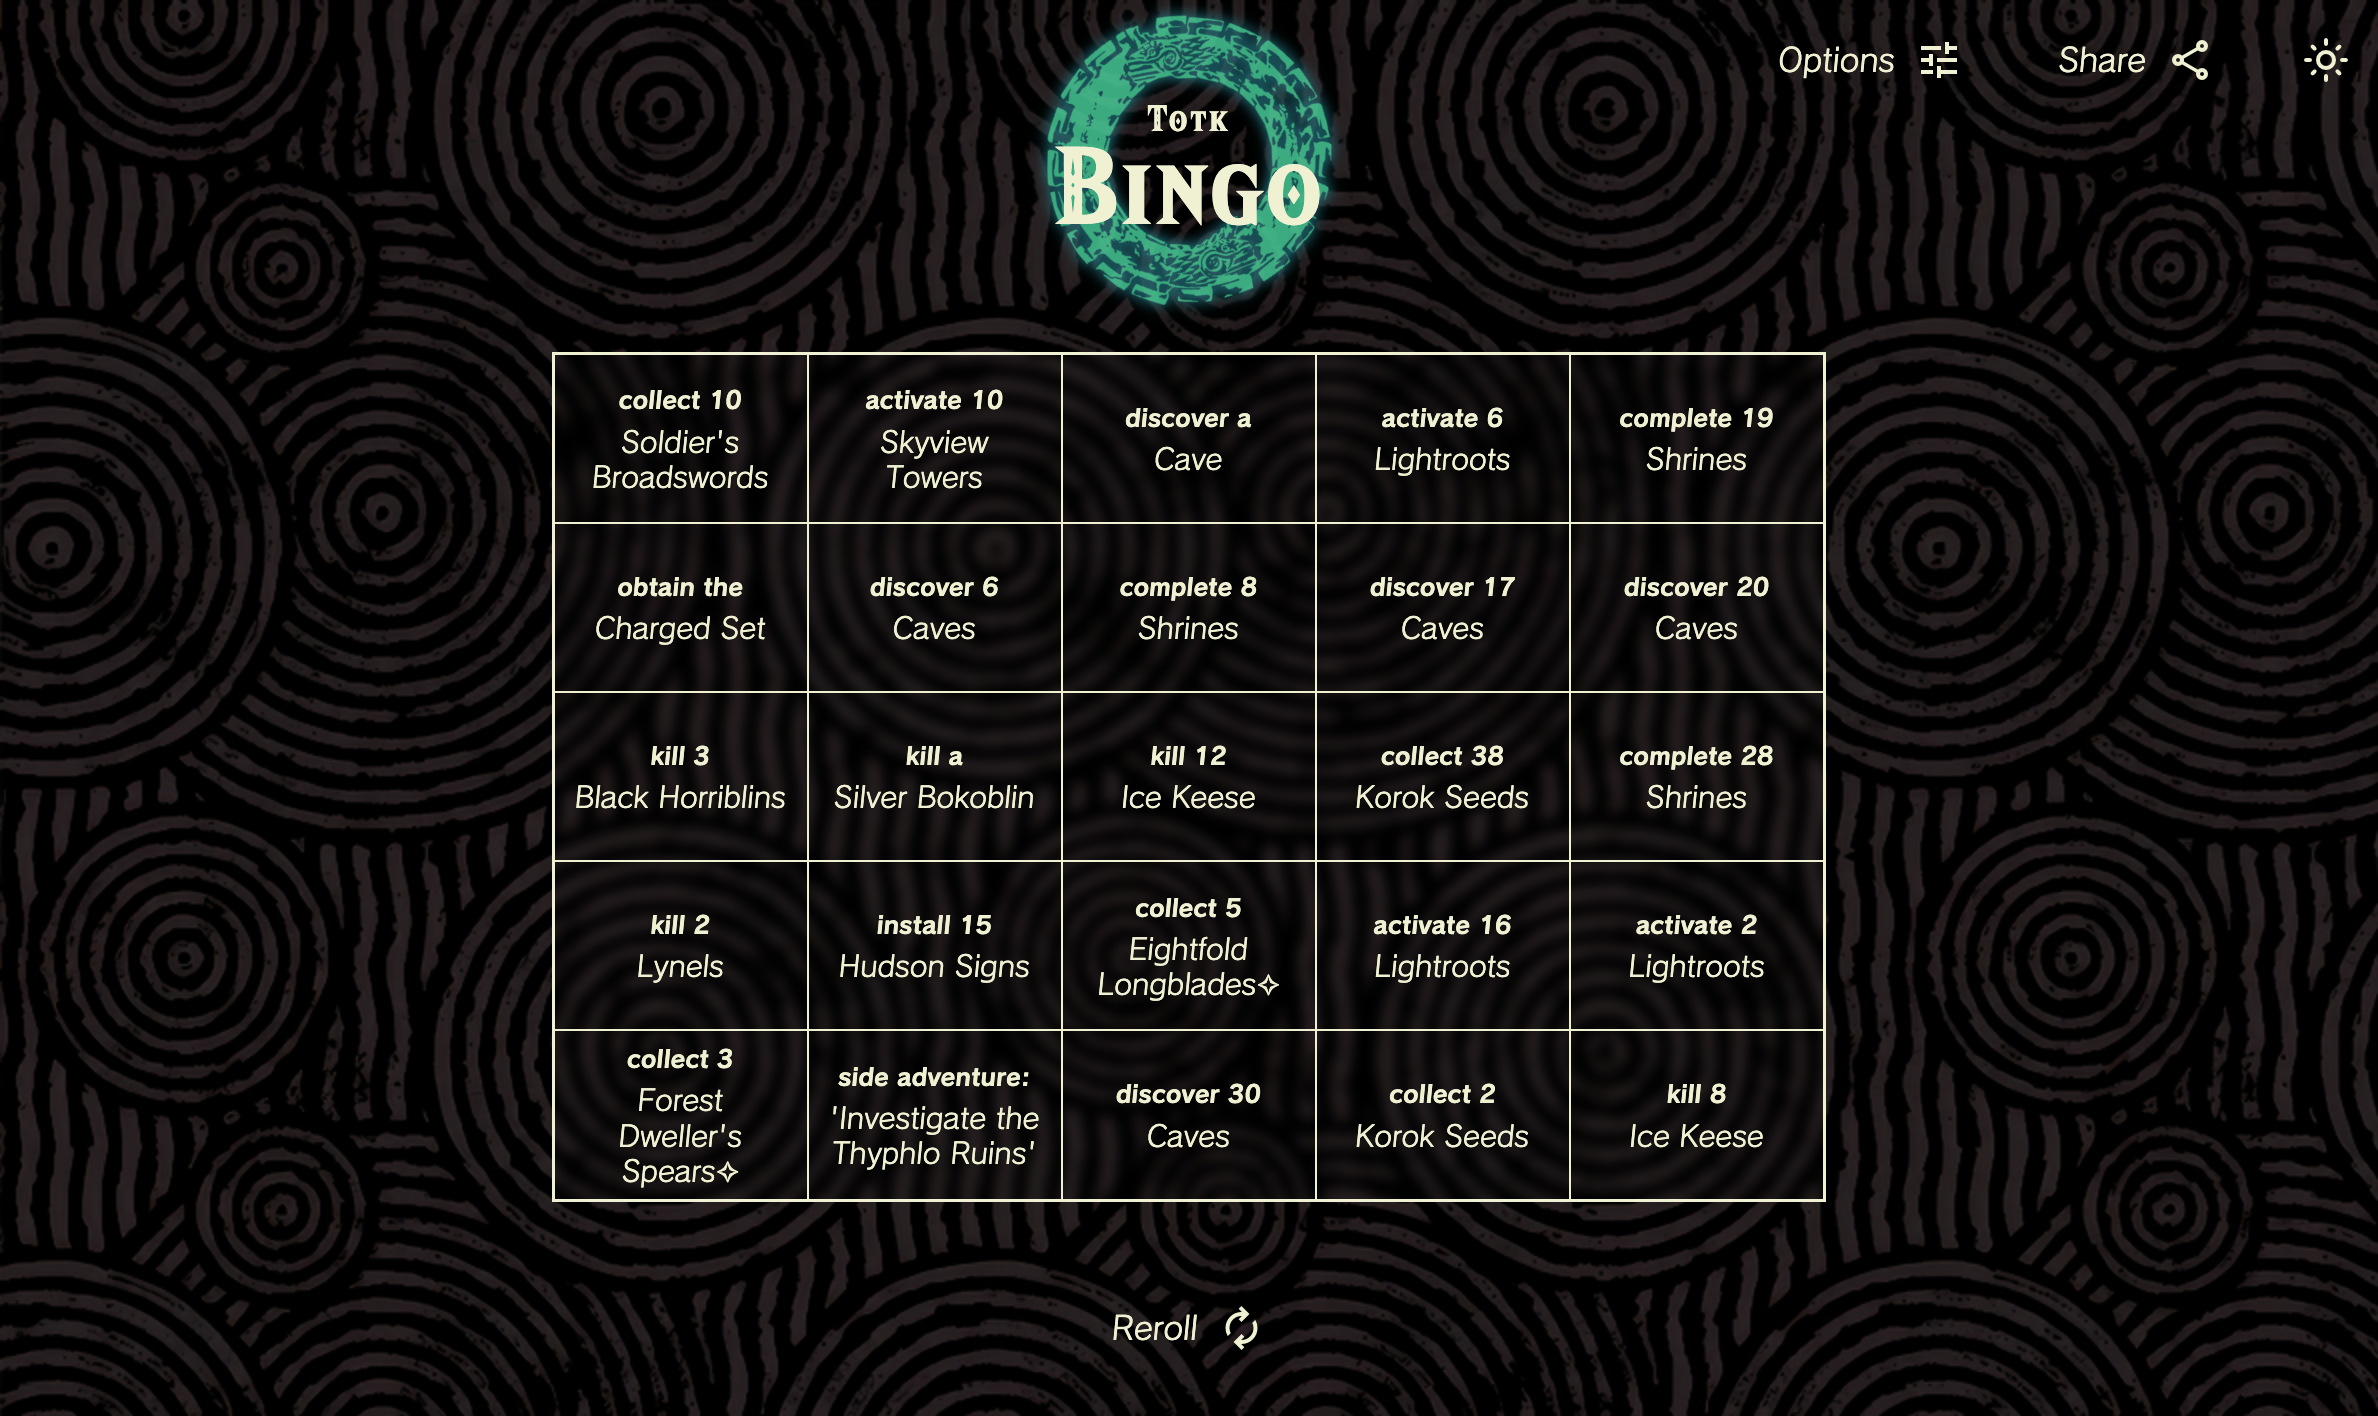
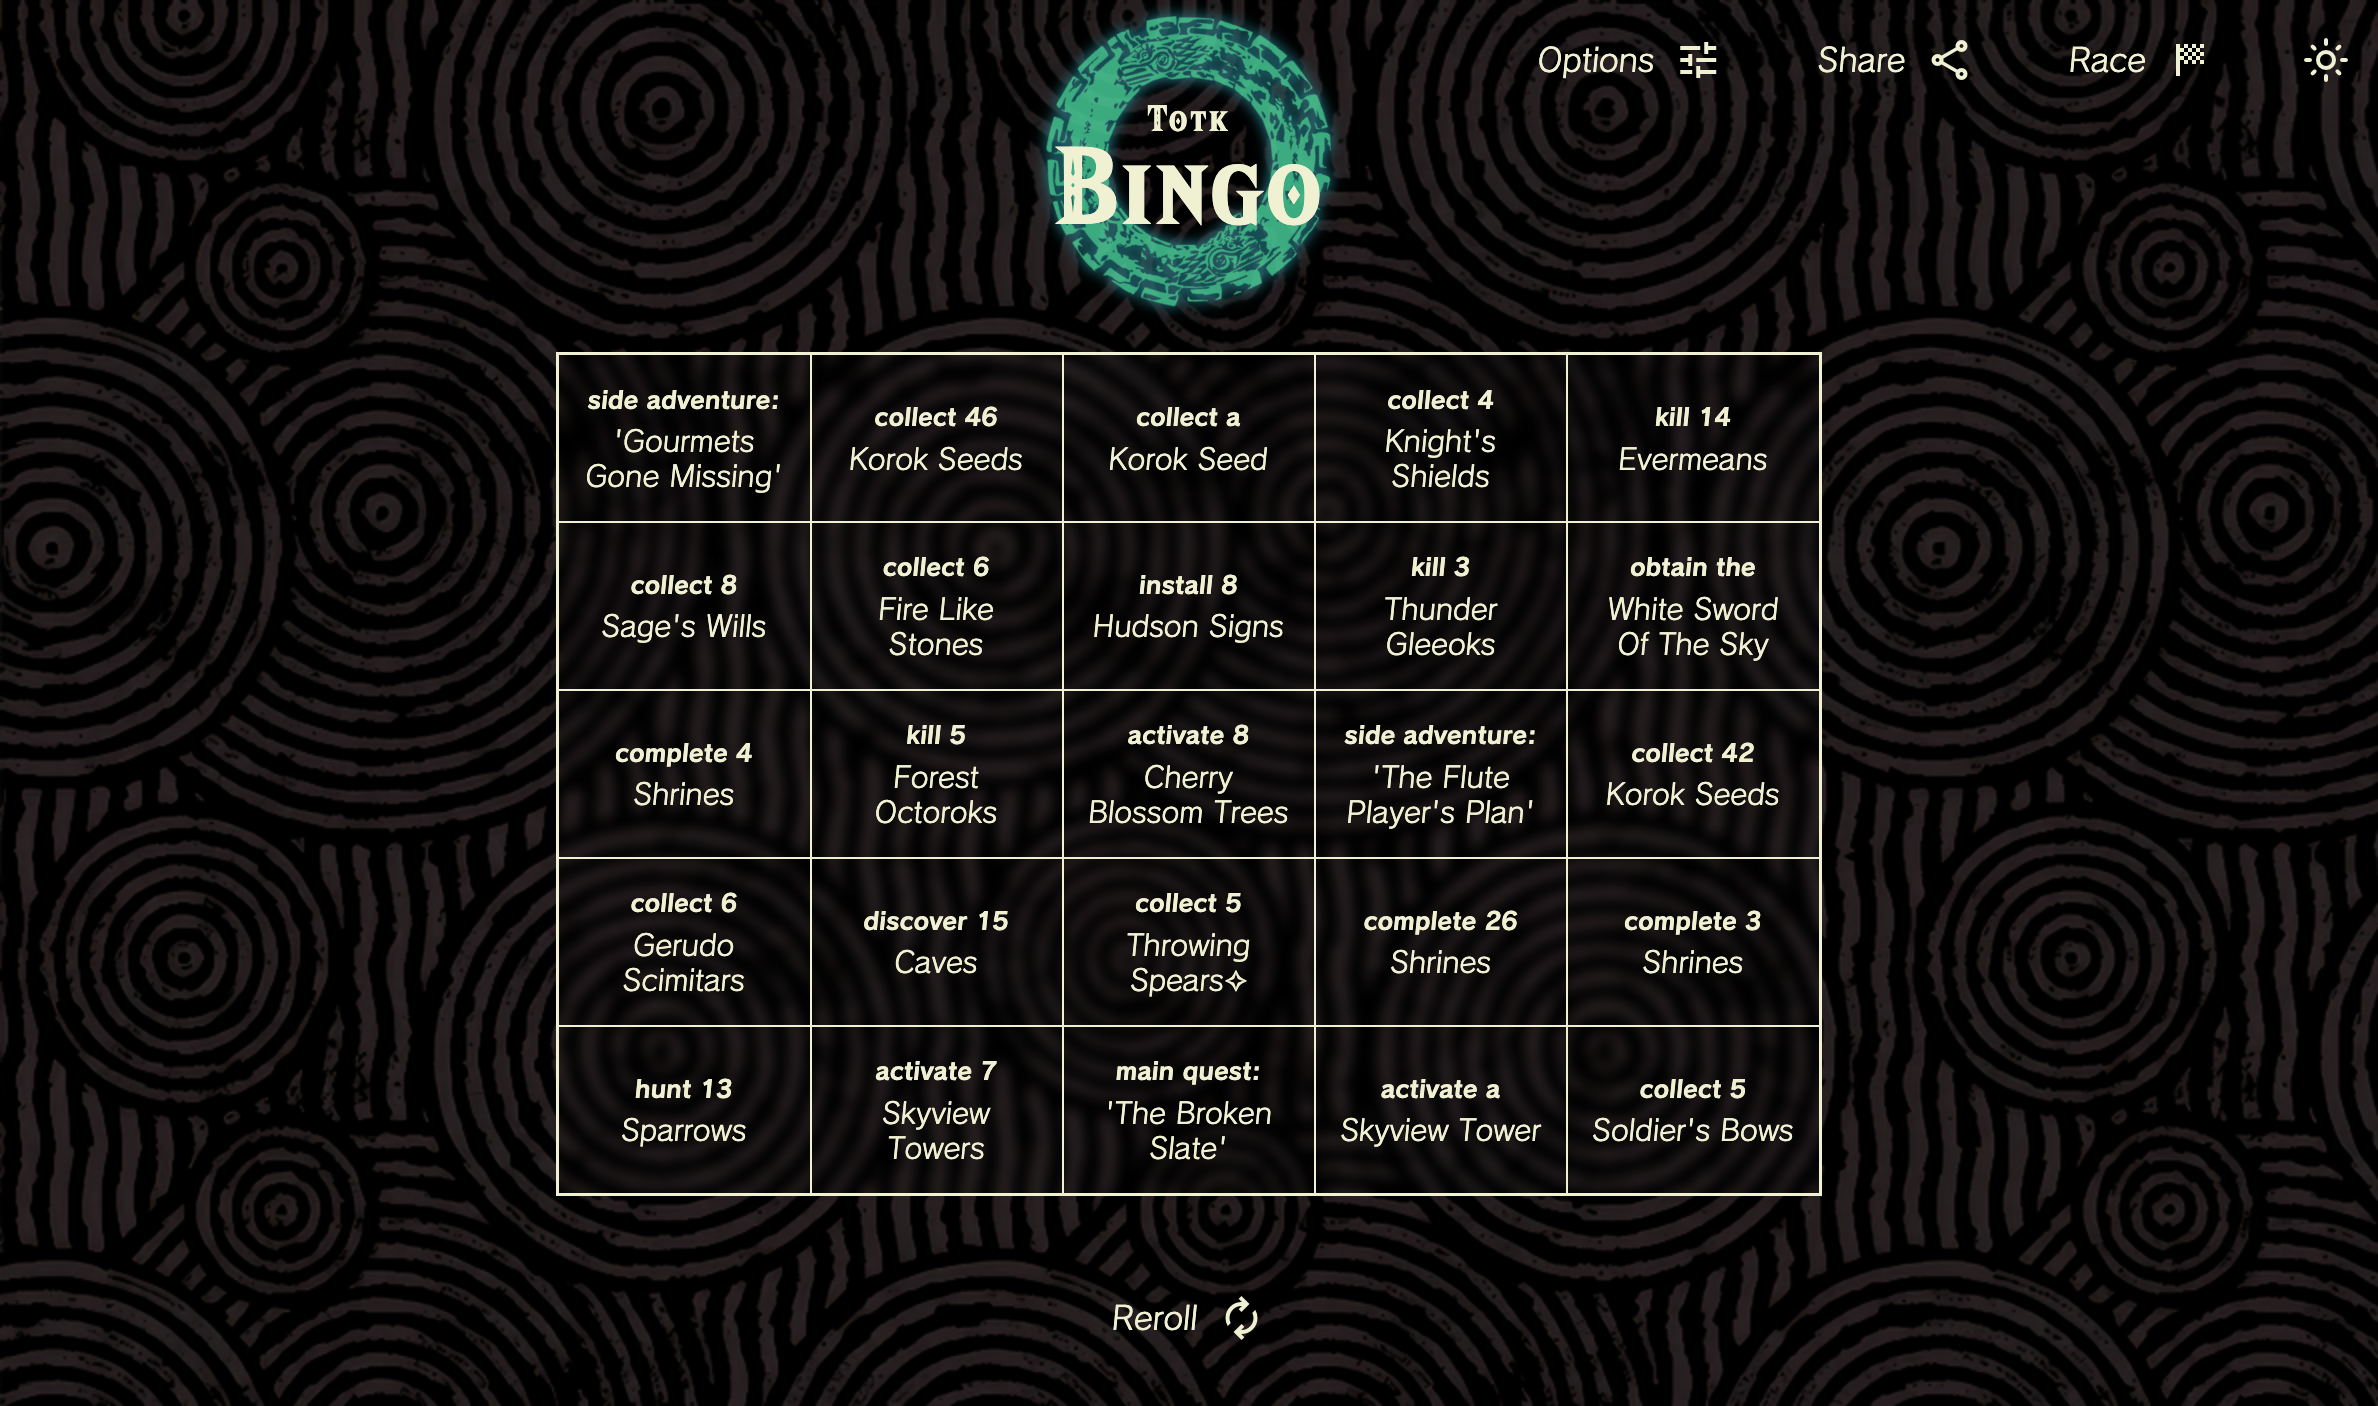
added racing to readme

diff --git a/README.md b/README.md
@@ -1,8 +1,17 @@
 # ![logo](./readme-assets/ouroboros-logo-small.png) Tears of the Kingdom Bingo
 
-## Description
-
 [Click here to visit the website.](https://totkbingo-728f1f6f6e8d.herokuapp.com/)
+
+
+## Contents
+1. [Description](#description)
+2. [How to Play](#how-to-play)
+3. [Racing](#want-to-race-a-friend)
+4. [Sharing](#can-i-share-my-board)
+4. [Options](#options)
+
+
+## Description
 
 A bingo board of randomly generated challenges for The Legend of Zelda: Tears of the Kingdom.
 
@@ -17,17 +26,33 @@ Your goal is to **complete at least 1 line of challenges on the board** (row, co
 1. Start on a new save file or after completing the Great Sky Island
 ![Game Starting Position](./readme-assets/game-starting-position.png)
 
-2. Once you've completed any of the challenges on the board, click it to mark it as compelete
+2. Once you've completed any of the challenges in Tears of the Kingdom, click it on the board to mark it as compelete
 
 ![Checking off challenges](./readme-assets/check-off-challenges.png)
 
+
 ### Want to race a friend?
+
+Click the **Race** button, then type in the name of the room you want to **create**.
+
+![Creating room](./readme-assets/creating-room.png)
+
+Have your friend **join** your room with the name you created. Then, **both players must click the Ready button to begin**.
+
+![Waiting room](./readme-assets/waiting-room.png)
+
+Then, play as normal and see who can complete the most challenges!
+
+![Race Preview](./readme-assets/race-preview.png)
+
+
+### Can I share my board?
 
 Set up your board and click the **Share** button to send a link to the board.
 
 ![Share Preview](./readme-assets/share-preview.png)
 
-> Note: *currently, separate bingo boards do not sync between each other*
+> _Note: shared boards only copy board settings_
 
 
 ## Options
